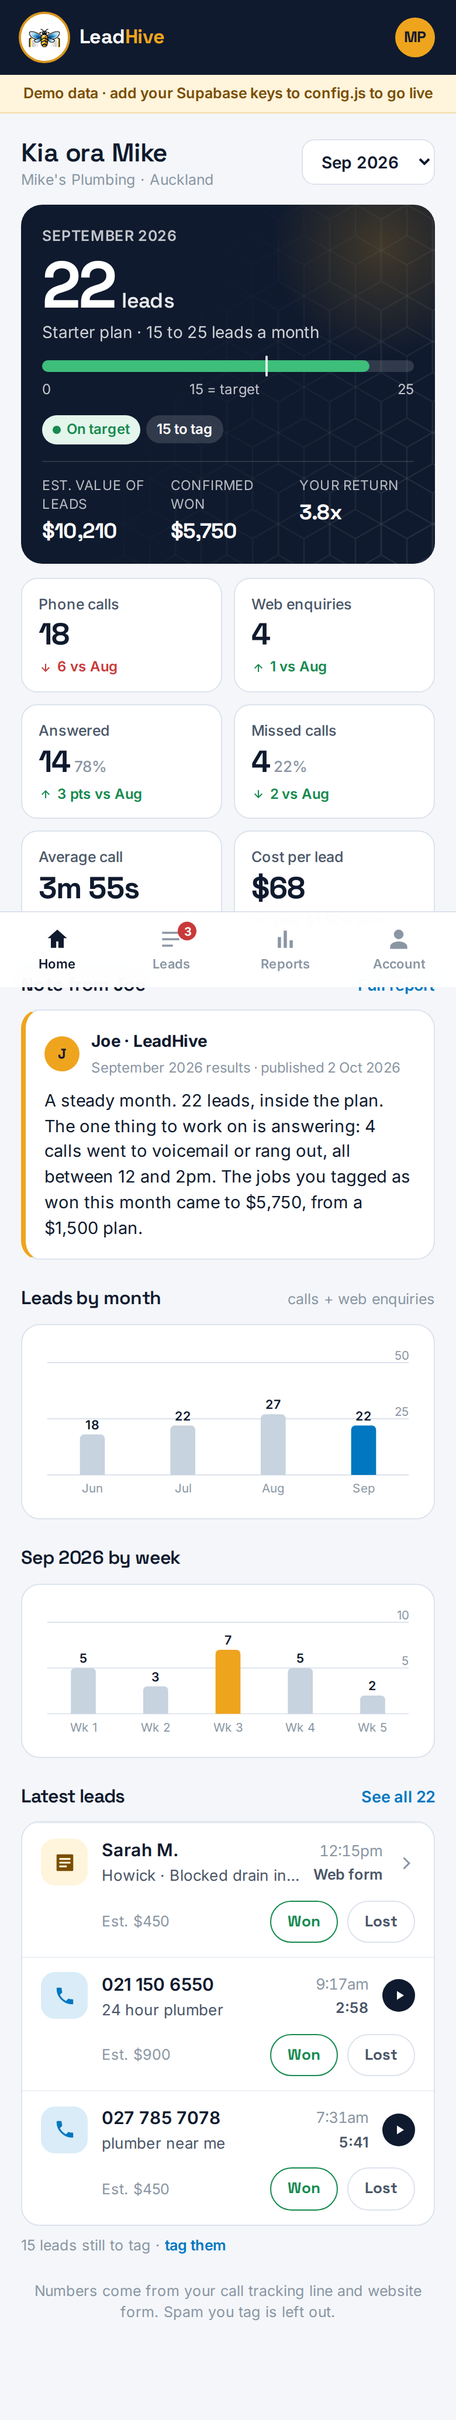
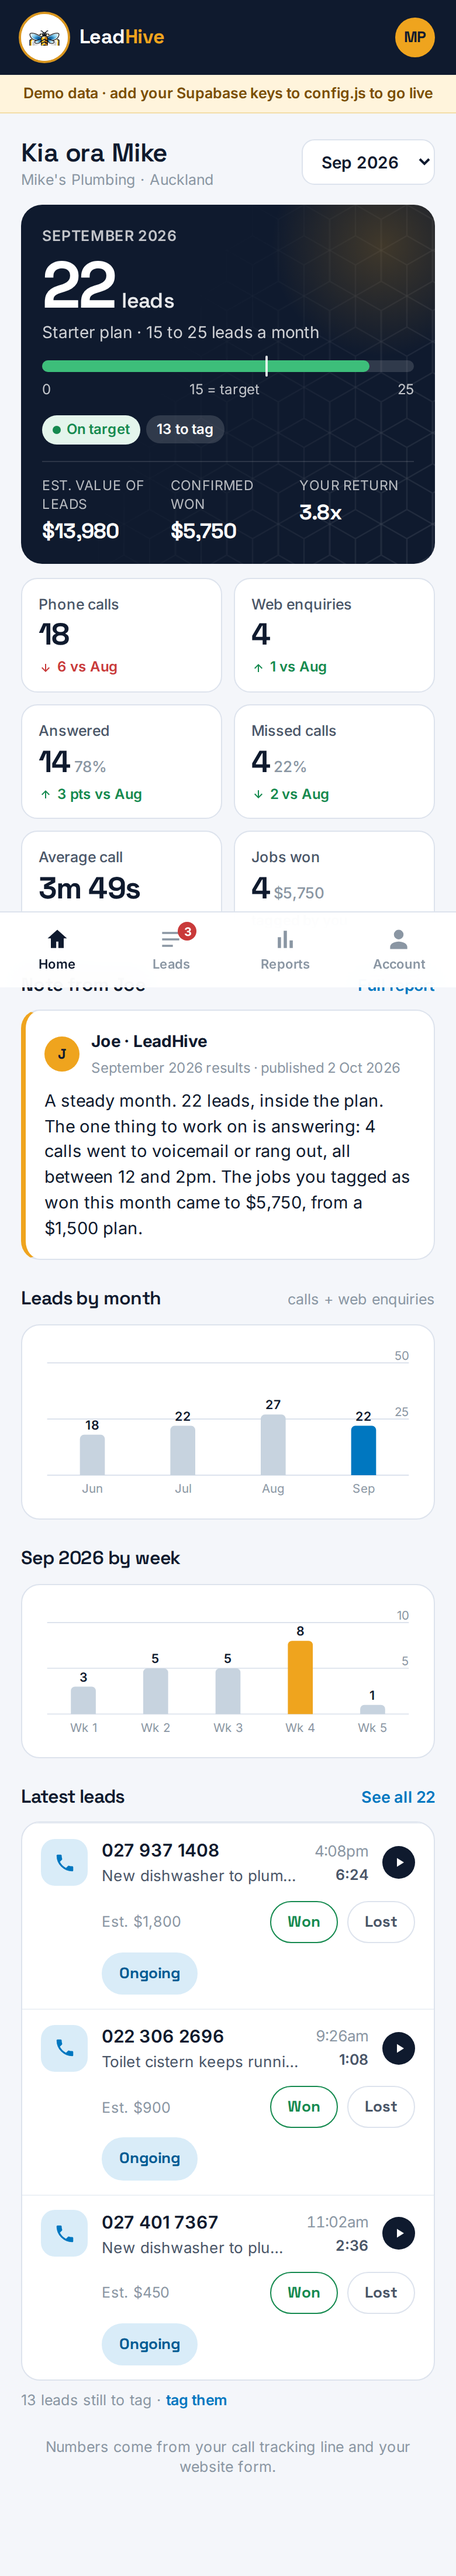
Drop cost per lead for partners; let a new partner take over a region
Partners no longer see a cost-per-lead figure anywhere (home tile now
shows jobs won with the confirmed total; report row and settings toggle
removed). New partner form gains "Replacing a past partner?": picking
the old partner copies their region, trade and plan and moves the
landing page's enquiry key to the new partner, so the page keeps
working untouched while the old partner gets a fresh unused key.

Claude-Session: https://claude.ai/code/session_01VgpvMX7zLqg1kcFMCfdGMH

diff --git a/portal/app/public/app.js b/portal/app/public/app.js
@@ -154,6 +154,12 @@ function makeSupabaseApi() {
     async upsertClient(c) { const row = { ...c }; if (!row.id) delete row.id; return q(sb.from("clients").upsert(row).select().single()); },
     async deactivateClient(cid, reason, note) { await q(sb.from("clients").update({ active: false, churned_on: new Date().toISOString().slice(0, 10), churn_reason: reason || null, churn_note: note || "" }).eq("id", cid)); },
     async getWebhookKey(cid) { const r = await q(sb.from("client_secrets").select("webhook_key").eq("client_id", cid).maybeSingle()); return r ? r.webhook_key : ""; },
+    async transferWebhook(fromId, toId) { // the new partner takes the old partner's key, so the landing page keeps working untouched
+      const old = await q(sb.from("client_secrets").select("webhook_key").eq("client_id", fromId).maybeSingle()); if (!old) return;
+      await q(sb.from("client_secrets").delete().eq("client_id", toId));
+      await q(sb.from("client_secrets").update({ client_id: toId }).eq("client_id", fromId));
+      await q(sb.from("client_secrets").insert({ client_id: fromId })); // old partner gets a fresh, unused key
+    },
     async upsertMonth(m) { return q(sb.from("months").upsert(m, { onConflict: "client_id,ym" }).select().single()); },
     async setAdSpend(month_id, ad_spend) { await q(sb.from("month_private").upsert({ month_id, ad_spend })); },
     async replaceMonthCalls(cid, ym, rows) { const n = await q(sb.rpc("replace_month_calls", { p_client: cid, p_ym: ym, p_rows: rows })); return { inserted: Number(n) || 0, updated: 0, replaced: true }; },
@@ -201,6 +207,7 @@ function makeDemoApi() {
     async touchSeen() { const me = meSync(); if (me && me.client_id) { D.seen = D.seen || {}; D.seen[me.client_id] = new Date().toISOString(); persist(); } },
     async loadLastSeen() { const m = { ...(D.seen || {}) }; const days = (n) => new Date(Date.now() - n * 864e5).toISOString(); if (!m[D.clients[0].id]) m[D.clients[0].id] = days(2); if (D.clients[1] && !m[D.clients[1].id]) m[D.clients[1].id] = days(19); return m; },
     async getWebhookKey(cid) { return D.secrets[cid] || ""; },
+    async transferWebhook(fromId, toId) { if (!D.secrets[fromId]) return; D.secrets[toId] = D.secrets[fromId]; D.secrets[fromId] = "lh_demo_" + uid().replace(/-/g, "").slice(0, 20); persist(); },
     async upsertMonth(m) { let row = D.months.find((x) => x.client_id === m.client_id && x.ym === m.ym); if (!row) { row = { id: uid(), ad_spend: 0, pdf_path: null, published_at: null, ...m }; D.months.push(row); } else Object.assign(row, m); persist(); return { ...row }; },
     async setAdSpend(month_id, ad_spend) { const m = D.months.find((x) => x.id === month_id); if (m) m.ad_spend = ad_spend; persist(); },
     async replaceMonthCalls(cid, ym, rows) {
@@ -560,7 +567,6 @@ function renderHome(ctx) {
   const fill = Math.min(100, (st.leads / c.lead_target_max) * 100); const minTick = (c.lead_target_min / c.lead_target_max) * 100;
   const latestPub = DB.months.filter((m) => m.client_id === c.id && m.status === "published").sort((a, b) => (a.ym < b.ym ? 1 : -1))[0];
   const recent = leadsFor(c.id, ym).slice(0, 3);
-  const showCpl = c.show_cost_per_lead && !live;
   app().innerHTML = topBar({ brand: true, right: `${ctx.viewAs ? `<a class="pill-admin" href="#/admin/client/${c.id}" style="text-decoration:none">VIEWING AS · BACK</a>` : ""}<div class="avatar">${h(c.initials || "")}</div>` }) + `<div class="shell">
   <div class="row" style="margin:18px 0 12px"><div class="grow"><h1 style="font-size:22px;font-weight:600">Kia ora ${h(c.contact_name)}</h1><div class="small muted">${h(c.business_name)} · ${h(c.region)}</div></div>
   <select id="ym-sel" aria-label="Month" style="font:inherit;font-size:14px;font-weight:600;padding:9px 12px;border-radius:11px;border:1px solid var(--rule);background:var(--card);color:var(--ink)">${months.map((m) => `<option value="${m}" ${m === ym ? "selected" : ""}>${ymLabel(m, false)}${m === cur && live ? " (so far)" : ""}</option>`).join("") || `<option>${ymLabel(ym, false)}</option>`}</select></div>
@@ -574,7 +580,7 @@ function renderHome(ctx) {
     <div class="kpi"><div class="l">Answered</div><div class="v">${st.answered}<small>${st.calls ? pct(st.answered, st.calls) + "%" : ""}</small></div>${delta(pct(st.answered, st.calls), prev.calls ? pct(prev.answered, prev.calls) : 0, true, " pts")}</div>
     <div class="kpi"><div class="l">Missed calls</div><div class="v">${st.missed}<small>${st.calls ? st.missedRate + "%" : ""}</small></div>${delta(st.missed, prev.missed, false)}</div>
     <div class="kpi"><div class="l">Average call</div><div class="v">${st.avgDur ? dur(st.avgDur) : "–"}</div></div>
-    <div class="kpi"><div class="l">${showCpl ? "Cost per lead" : "Jobs won"}</div><div class="v">${showCpl ? (st.leads ? money(st.cplFee) : "–") : st.won}</div><div class="d flat">${showCpl ? `on your ${money(c.monthly_fee)} plan` : live ? "tagged so far" : "tagged by you"}</div></div>
+    <div class="kpi"><div class="l">Jobs won</div><div class="v">${st.won}${st.wonValue ? `<small>${money(st.wonValue)}</small>` : ""}</div><div class="d flat">${live ? "tagged so far" : "tagged by you"}</div></div>
   </div>
   ${latestPub ? `<div class="sec"><div class="sec-h"><h2>Note from ${h(JOE.name)}</h2><a href="#${ctx.base}/report/${latestPub.ym}">Full report</a></div><div class="card note"><div class="who"><div class="avatar">${h(JOE.name[0])}</div><div><b>${h(JOE.name)} · LeadHive</b><small>${ymLabel(latestPub.ym)} results · published ${fmtDate(latestPub.published_at)}</small></div></div><p>${h(latestPub.summary)}</p></div></div>`
     : `<div class="sec"><div class="card note"><div class="who"><div class="avatar">${h(JOE.name[0])}</div><div><b>${h(JOE.name)} · LeadHive</b><small>Welcome aboard</small></div></div><p>Your campaign is live. Calls and web enquiries will show up here as they come in, and your first full report lands at the end of the month.</p></div></div>`}
@@ -668,7 +674,7 @@ function renderReport(ctx) {
   const kv = (k, v) => `<div class="rpt-k"><span>${k}</span><b>${v}</b></div>`;
   app().innerHTML = topBar({ title: `${ymLabel(ym)} report`, sub: h(c.business_name), back: `${ctx.base}/reports` }) + `<div class="shell">
   <div class="hero" style="margin-top:16px"><div class="k">${ymLabel(ym)}${st.wonValue ? " · your return" : ""}</div>${st.wonValue ? `<div class="n ret">${(st.wonValue / (Number(c.monthly_fee) || 1)).toFixed(1)}x</div><div class="sub">${money(st.wonValue)} confirmed won from your ${money(c.monthly_fee)} plan · ${st.leads} leads</div>` : `<div class="n">${st.leads}<small>leads</small></div><div class="sub">${h(c.package_name)} plan · target ${c.lead_target_min} to ${c.lead_target_max}</div>`}<div class="mt12">${targetChip(st)}${prev.leads ? ` <span class="chip white">${st.leads >= prev.leads ? "+" : ""}${st.leads - prev.leads} leads vs ${ymLabel(ymAdd(ym, -1), false)}</span>` : ""}</div></div>
-  <div class="card mt12">${kv("Phone calls", st.calls)}${kv("Answered", `${st.answered} <span class="muted small">(${pct(st.answered, st.calls)}%)</span>`)}${kv("Missed or voicemail", `${st.missed} <span class="muted small">(${st.missedRate}%)</span>`)}${kv("Web enquiries", st.enq)}${kv("Average call length", st.avgDur ? dur(st.avgDur) : "–")}${st.spam && ctx.isAdmin ? kv("Spam removed (admin only)", st.spam) : ""}${c.show_cost_per_lead ? kv("Cost per lead", `${money(st.cplFee)} <span class="muted small">on ${money(c.monthly_fee)}</span>`) : ""}${c.show_ad_spend && st.adSpend != null ? kv("Ad spend (Google)", money(st.adSpend)) : ""}${kv("Estimated value of leads", money(st.estTotal))}${st.won ? kv("Jobs you tagged won", `${st.won} · ${money(st.wonValue)}`) : ""}${st.lost ? kv("Tagged lost", st.lost) : ""}${st.quoted ? kv("Ongoing", st.quoted) : ""}${st.untagged ? kv("Still to tag", st.untagged) : ""}</div>
+  <div class="card mt12">${kv("Phone calls", st.calls)}${kv("Answered", `${st.answered} <span class="muted small">(${pct(st.answered, st.calls)}%)</span>`)}${kv("Missed or voicemail", `${st.missed} <span class="muted small">(${st.missedRate}%)</span>`)}${kv("Web enquiries", st.enq)}${kv("Average call length", st.avgDur ? dur(st.avgDur) : "–")}${st.spam && ctx.isAdmin ? kv("Spam removed (admin only)", st.spam) : ""}${c.show_ad_spend && st.adSpend != null ? kv("Ad spend (Google)", money(st.adSpend)) : ""}${kv("Estimated value of leads", money(st.estTotal))}${st.won ? kv("Jobs you tagged won", `${st.won} · ${money(st.wonValue)}`) : ""}${st.lost ? kv("Tagged lost", st.lost) : ""}${st.quoted ? kv("Ongoing", st.quoted) : ""}${st.untagged ? kv("Still to tag", st.untagged) : ""}</div>
   ${st.wonValue ? `<div class="card mt12" style="background:var(--good-bg);border-color:#BFE5CF"><b style="font-size:15px;color:#0F6B3D">${money(st.wonValue)} confirmed won from a ${money(c.monthly_fee)} plan</b><p class="small mt8" style="color:#1F5A3C;line-height:1.45">That's ${(st.wonValue / (Number(c.monthly_fee) || 1)).toFixed(1)}x on your own numbers, from the ${st.won} job${st.won === 1 ? "" : "s"} you tagged won.${st.untagged ? ` ${st.untagged} lead${st.untagged === 1 ? " is" : "s are"} still untagged.` : ""}</p></div>` : `<div class="card mt12" style="background:var(--gold-bg);border-color:#F3DDA8"><b style="font-size:15px;color:var(--gold-ink)">${money(st.estTotal)} of estimated work in these leads</b><p class="small mt8" style="color:var(--gold-ink);line-height:1.45">Tap Won or Lost on each lead and put your real numbers in. The report then shows your actual return, not our estimate.</p></div>`}
   <div class="sec"><div class="sec-h"><h2>Leads by week</h2></div><div class="card chart">${columnChart({ labels: st.weeks.map((_, i) => "Wk " + (i + 1)), values: st.weeks, gold: st.leads ? [st.weeks.indexOf(Math.max(...st.weeks))] : [], height: 130, tipFmt: (i) => `Week ${i + 1}: ${st.weeks[i]} leads` })}</div></div>
   <div class="sec"><div class="sec-h"><h2>${h(JOE.name)}'s summary</h2></div><div class="card note"><div class="who"><div class="avatar">${h(JOE.name[0])}</div><div><b>${h(JOE.name)} · LeadHive</b><small>Published ${fmtDate(m.published_at)}</small></div></div><p>${h(m.summary)}</p></div></div>
@@ -824,20 +830,23 @@ async function renderSettings(ctx) {
   <div class="two"><label class="fld"><span>Country</span><select id="s-country"><option ${c.country === "NZ" ? "selected" : ""}>NZ</option><option ${c.country === "AU" ? "selected" : ""}>AU</option></select></label><label class="fld"><span>Time zone</span><select id="s-tz">${TZ_OPTIONS.map((t) => `<option ${(c.timezone || TZ_FOR[c.country]) === t ? "selected" : ""}>${t}</option>`).join("")}</select></label></div>
   ${f("s-started", "Start date", c.started_on, "date")}</div>
   <div class="card mt12"><h2 style="font-size:16px;font-weight:600">Plan</h2><div class="two"><label class="fld"><span>Package</span><select id="s-pkg">${["Starter", "Growth", "Dominator", "Starter (trial)", "Custom"].map((n) => `<option ${c.package_name === n ? "selected" : ""}>${n}</option>`).join("")}</select></label>${f("s-fee", "Monthly fee (ex GST)", c.monthly_fee, "number")}</div><div class="two">${f("s-tmin", "Lead target min", c.lead_target_min, "number")}${f("s-tmax", "Lead target max", c.lead_target_max, "number")}</div><div class="two">${f("s-bill", "Billing day of month", c.billing_day, "number", 'min="1" max="28"')}${f("s-avg", "Average job value (your estimate)", c.avg_job_value, "number")}</div><p class="small muted mt8">Shown as "Est." on every lead that has no estimate of its own. A CSV "Value" column sets per-lead estimates.</p>
-  <div class="mt12"><div class="switch"><div><b>Show cost per lead</b><small>Worked out from their fee, not your ad spend: ${money(c.monthly_fee)} ÷ leads.</small></div><button class="tog ${c.show_cost_per_lead ? "on" : ""}" id="s-cpl"></button></div><div class="switch"><div><b>Show Google Ads spend</b><small>Off by default. Turning this on reveals your margin.</small></div><button class="tog ${c.show_ad_spend ? "on" : ""}" id="s-ads"></button></div></div></div>
+  <div class="mt12"><div class="switch"><div><b>Show Google Ads spend</b><small>Off by default. Turning this on reveals your margin.</small></div><button class="tog ${c.show_ad_spend ? "on" : ""}" id="s-ads"></button></div></div></div>
+  ${isNew && DB.clients.some((x) => !x.active) ? `<div class="card mt12"><h2 style="font-size:16px;font-weight:600">Replacing a past partner?</h2><p class="small muted mt8">Pick who they're taking over from and the landing page's enquiry connection moves to the new partner, so the page needs no change. Region, trade and plan are copied in to save typing.</p><label class="fld"><span>Takes over from</span><select id="s-takeover"><option value="">Nobody, brand new region</option>${DB.clients.filter((x) => !x.active).map((x) => `<option value="${x.id}">${h(x.business_name)} · ${h(x.region)}</option>`).join("")}</select></label></div>` : ""}
   <div class="card mt12"><h2 style="font-size:16px;font-weight:600">Login</h2><p class="small muted mt8">They log in with the email above. Set a password here and send it to them, or let them use "Set up your login" on the login screen with that email.</p>${f("s-pass", isNew ? "Password for their login" : "Set or reset their password", "", "text", 'placeholder="e.g. Plumbing2026" autocomplete="off"')}<div class="btn-row mt12"><button class="btn ghost sm" style="flex:1" id="s-sendlogin">${ICON.copy}Copy login message</button></div></div>
   ${isNew ? "" : `<div class="card mt12"><h2 style="font-size:16px;font-weight:600">Website enquiries</h2><p class="small muted mt8">Add this to the landing page's enquiry route and every form submission lands in their portal instantly.</p><pre class="code mt8" id="hook">loading…</pre></div>`}
   <button class="btn primary mt16" id="s-save">${isNew ? "Create partner + login" : "Save settings"}</button>
   ${isNew || !c.active ? "" : `<button class="btn danger mt12" id="s-off">Partner is leaving…</button>
   <div class="card mt12 hidden" id="off-box"><h2 style="font-size:16px;font-weight:600">Why are they leaving?</h2><p class="small muted mt8">One tap. You'll see this on the past partners list and it shapes what we fix.</p><label class="fld"><span>Reason</span><select id="off-reason">${Object.entries(CHURN_REASONS).map(([k, v]) => `<option value="${k}">${v}</option>`).join("")}</select></label><label class="fld"><span>Note (optional)</span><textarea id="off-note" placeholder="e.g. Hired a second plumber, wants to pause until March"></textarea></label><div class="btn-row mt12"><button class="btn ghost" id="off-cancel">Keep them</button><button class="btn danger" id="off-go">Pause their portal</button></div></div>`}
   <div style="height:20px"></div></div>`;
-  $("s-cpl").onclick = (e) => e.currentTarget.classList.toggle("on"); $("s-ads").onclick = (e) => e.currentTarget.classList.toggle("on");
+  $("s-ads").onclick = (e) => e.currentTarget.classList.toggle("on");
+  const tk = $("s-takeover"); if (tk) tk.onchange = (e) => { const o = client(e.target.value); if (!o) return; $("s-region").value = o.region || ""; $("s-niche").value = o.niche; $("s-country").value = o.country; $("s-tz").value = o.timezone || TZ_FOR[o.country]; $("s-pkg").value = o.package_name; $("s-fee").value = o.monthly_fee; $("s-tmin").value = o.lead_target_min; $("s-tmax").value = o.lead_target_max; $("s-avg").value = o.avg_job_value; toast(`Copied ${o.business_name}'s region and plan`); };
   $("s-country").onchange = (e) => { $("s-tz").value = TZ_FOR[e.target.value] || "Pacific/Auckland"; };
-  const read = () => ({ business_name: $("s-biz").value.trim(), contact_name: $("s-contact").value.trim(), initials: ($("s-init").value.trim() || $("s-biz").value.trim().split(/\s+/).map((w) => w[0] || "").join("").slice(0, 2)).toUpperCase(), phone: $("s-phone").value.trim(), email: $("s-email").value.trim().toLowerCase() || null, niche: $("s-niche").value, region: $("s-region").value.trim(), country: $("s-country").value, timezone: $("s-tz").value, started_on: $("s-started").value || cur + "-01", package_name: $("s-pkg").value, monthly_fee: Number($("s-fee").value) || 0, lead_target_min: Number($("s-tmin").value) || 0, lead_target_max: Number($("s-tmax").value) || 0, billing_day: Math.min(28, Math.max(1, Number($("s-bill").value) || 1)), avg_job_value: Number($("s-avg").value) || 0, show_cost_per_lead: $("s-cpl").classList.contains("on"), show_ad_spend: $("s-ads").classList.contains("on") });
+  const read = () => ({ business_name: $("s-biz").value.trim(), contact_name: $("s-contact").value.trim(), initials: ($("s-init").value.trim() || $("s-biz").value.trim().split(/\s+/).map((w) => w[0] || "").join("").slice(0, 2)).toUpperCase(), phone: $("s-phone").value.trim(), email: $("s-email").value.trim().toLowerCase() || null, niche: $("s-niche").value, region: $("s-region").value.trim(), country: $("s-country").value, timezone: $("s-tz").value, started_on: $("s-started").value || cur + "-01", package_name: $("s-pkg").value, monthly_fee: Number($("s-fee").value) || 0, lead_target_min: Number($("s-tmin").value) || 0, lead_target_max: Number($("s-tmax").value) || 0, billing_day: Math.min(28, Math.max(1, Number($("s-bill").value) || 1)), avg_job_value: Number($("s-avg").value) || 0, show_ad_spend: $("s-ads").classList.contains("on") });
   $("s-save").onclick = async () => { const v = read(); if (!v.business_name) { toast("Business name is needed", true); return; }
     const btn = $("s-save"); btn.setAttribute("disabled", "");
     try { const saved = await api.upsertClient(isNew ? v : { id: c.id, ...v });
       const ix = DB.clients.findIndex((x) => x.id === saved.id); if (ix >= 0) DB.clients[ix] = saved; else DB.clients.push(saved);
+      const from = $("s-takeover") && $("s-takeover").value; if (from) { try { await api.transferWebhook(from, saved.id); DB.keys = {}; } catch (ex) { toast("Partner saved, but the enquiry connection didn't move: " + ex.message, true); } }
       const pw = $("s-pass").value.trim(); let note = "";
       if (pw || (isNew && v.email)) { if (!v.email) note = " · no email, so no login yet"; else if (!pw) note = " · no password set, they can use Set up your login"; else { try { await api.createLogin(saved.id, v.email, pw); note = " · login ready"; } catch (ex) { note = " · login not created: " + ex.message; } } }
       await refreshAdmin(); toast((isNew ? "Partner created" : "Saved") + note, /not created/.test(note)); setTimeout(() => go(`/admin/client/${saved.id}`), 600); }

diff --git a/portal/app/public/demo-data.js b/portal/app/public/demo-data.js
@@ -90,9 +90,9 @@
     const MONTHS = ["January", "February", "March", "April", "May", "June", "July", "August", "September", "October", "November", "December"];
     const label = (ym) => MONTHS[+ym.split("-")[1] - 1];
     const clients = [
-      { id: "11111111-1111-4111-a111-111111111111", business_name: "Mike's Plumbing", initials: "MP", contact_name: "Mike", email: "demo@leadhivenz.com", phone: "021 555 0192", niche: "Emergency plumber", region: "Auckland", country: "NZ", timezone: NZ, package_name: "Starter", monthly_fee: 1500, lead_target_min: 15, lead_target_max: 25, started_on: m4 + "-01", billing_day: 1, show_cost_per_lead: true, show_ad_spend: false, avg_job_value: 450, active: true },
-      { id: "22222222-2222-4222-a222-222222222222", business_name: "Bayside Electrical", initials: "BE", contact_name: "Sam", email: "sam@baysideelectrical.com.au", phone: "0412 338 901", niche: "Emergency electrician", region: "Gold Coast", country: "AU", timezone: AU, package_name: "Growth", monthly_fee: 2200, lead_target_min: 25, lead_target_max: 35, started_on: m2 + "-01", billing_day: 1, show_cost_per_lead: true, show_ad_spend: false, avg_job_value: 520, active: true },
-      { id: "33333333-3333-4333-a333-333333333333", business_name: "Northland Building Maintenance", initials: "NH", contact_name: "Brian", email: "nbm.br001@gmail.com", phone: "022 322 1137", niche: "Handyman", region: "Northland", country: "NZ", timezone: NZ, package_name: "Starter (trial)", monthly_fee: 1500, lead_target_min: 15, lead_target_max: 25, started_on: m1 + "-28", billing_day: 28, show_cost_per_lead: true, show_ad_spend: false, avg_job_value: 380, active: true },
+      { id: "11111111-1111-4111-a111-111111111111", business_name: "Mike's Plumbing", initials: "MP", contact_name: "Mike", email: "demo@leadhivenz.com", phone: "021 555 0192", niche: "Emergency plumber", region: "Auckland", country: "NZ", timezone: NZ, package_name: "Starter", monthly_fee: 1500, lead_target_min: 15, lead_target_max: 25, started_on: m4 + "-01", billing_day: 1, show_ad_spend: false, avg_job_value: 450, active: true },
+      { id: "22222222-2222-4222-a222-222222222222", business_name: "Bayside Electrical", initials: "BE", contact_name: "Sam", email: "sam@baysideelectrical.com.au", phone: "0412 338 901", niche: "Emergency electrician", region: "Gold Coast", country: "AU", timezone: AU, package_name: "Growth", monthly_fee: 2200, lead_target_min: 25, lead_target_max: 35, started_on: m2 + "-01", billing_day: 1, show_ad_spend: false, avg_job_value: 520, active: true },
+      { id: "33333333-3333-4333-a333-333333333333", business_name: "Northland Building Maintenance", initials: "NH", contact_name: "Brian", email: "nbm.br001@gmail.com", phone: "022 322 1137", niche: "Handyman", region: "Northland", country: "NZ", timezone: NZ, package_name: "Starter (trial)", monthly_fee: 1500, lead_target_min: 15, lead_target_max: 25, started_on: m1 + "-28", billing_day: 28, show_ad_spend: false, avg_job_value: 380, active: true },
     ];
     const [mike, bay, nth] = clients;
     let calls = [], enquiries = [], months = [], secrets = {};

diff --git a/portal/app/scripts/make-seed.js b/portal/app/scripts/make-seed.js
@@ -13,7 +13,7 @@ lines.push("-- Demo partner for sales calls: Mike's Plumbing (demo@leadhivenz.co
 lines.push("-- Generated by scripts/make-seed.js on " + new Date().toISOString().slice(0, 10) + ". Safe to re-run.");
 lines.push("begin;");
 lines.push(`delete from public.clients where id = ${q(mike.id)};`);
-lines.push(`insert into public.clients (id, business_name, initials, contact_name, email, phone, niche, region, country, timezone, package_name, monthly_fee, lead_target_min, lead_target_max, started_on, billing_day, show_cost_per_lead, show_ad_spend, avg_job_value, active) values (${[mike.id, mike.business_name, mike.initials, mike.contact_name, mike.email, mike.phone, mike.niche, mike.region, mike.country, mike.timezone, mike.package_name, mike.monthly_fee, mike.lead_target_min, mike.lead_target_max, mike.started_on, mike.billing_day, mike.show_cost_per_lead, mike.show_ad_spend, mike.avg_job_value, mike.active].map(q).join(", ")});`);
+lines.push(`insert into public.clients (id, business_name, initials, contact_name, email, phone, niche, region, country, timezone, package_name, monthly_fee, lead_target_min, lead_target_max, started_on, billing_day, show_ad_spend, avg_job_value, active) values (${[mike.id, mike.business_name, mike.initials, mike.contact_name, mike.email, mike.phone, mike.niche, mike.region, mike.country, mike.timezone, mike.package_name, mike.monthly_fee, mike.lead_target_min, mike.lead_target_max, mike.started_on, mike.billing_day, mike.show_ad_spend, mike.avg_job_value, mike.active].map(q).join(", ")});`);
 for (const m of D.months.filter((x) => x.client_id === mike.id)) {
   lines.push(`insert into public.months (id, client_id, ym, status, summary, points, published_at) values (${q(m.id)}, ${q(m.client_id)}, ${q(m.ym)}, ${q(m.status)}, ${q(m.summary)}, ${j(m.points)}, ${q(m.published_at)});`);
   lines.push(`insert into public.month_private (month_id, ad_spend) values (${q(m.id)}, ${m.ad_spend || 0});`);

diff --git a/portal/README.md b/portal/README.md
@@ -90,7 +90,9 @@ you publish. Tick "Replace the month" only when you want calls that aren't in th
 | Admin    |                                                                              | partners list, upload month, settings & login, margin per month, enquiry webhook key |
 
 Partners never see Google Ads spend unless the per-partner toggle is on (it lives in an
-admin-only table). Cost per lead shown to partners is **fee ÷ leads**, never ad spend.
+admin-only table), and they never see a cost per lead at all: the portal shows them the
+value of their leads, what they've confirmed won, and their return, nothing that invites a
+price conversation.
 Partners can only change the outcome, job value and note on their own leads (enforced in the
 database, not just the UI). Recordings and PDFs are private files served by short-lived links.
 
@@ -140,6 +142,15 @@ database refuses the value from a partner login.
 Use the return in every renewal and upsell conversation, feed your own "not a lead" and
 "spam" flags back into negative keywords, and make tagging a two-minute ritual on the
 monthly check-in call.
+
+## Replacing a partner in a region
+
+Sign the new one, then Admin → **+ New partner** → in "Replacing a past partner?" pick who
+they take over from. Their region, trade and plan are copied in, and the old partner's
+enquiry connection moves across, so the landing page keeps posting enquiries without any
+change to it. Then: set the new partner's mobile, email and password, create the login, and
+in Nimbata change the tracking number's forwarding to the new mobile. Next upload, pick the
+new partner. The old partner's history stays on their own record under Past partners.
 
 ## When a partner leaves
 
